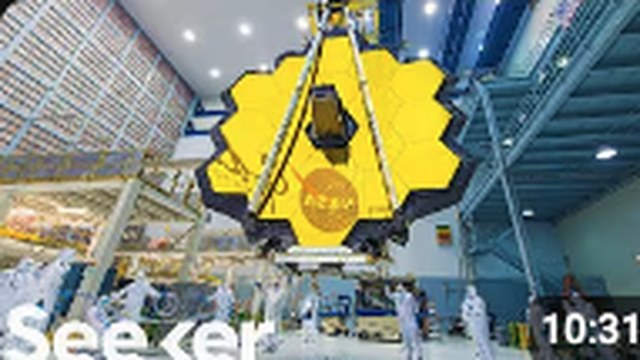
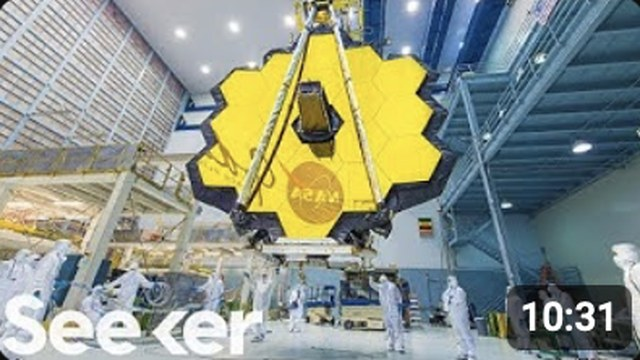
Refresh Seeker thumbnails and captions

diff --git a/index.html b/index.html
@@ -530,7 +530,7 @@ img[src="img/ttt-concept.jpg"] { border: 0 !important; box-shadow: none !importa
 .edu .sub2:last-child { margin-bottom: 0; }
 #p-seeker .hcaw span { white-space: nowrap; }
 #p-seeker .sick-fig, #p-seeker .site-fig { margin-top: 1.25rem; }
-#p-seeker .hcaw-fig .cap { margin: 0.6rem 0 0; }
+#p-seeker .hcaw-fig .cap { margin: 0.6rem 0 0; } .hcaw-fig figcaption a, .hcaw-fig .cap a { color: inherit; text-decoration: underline; text-decoration-thickness: 1px; text-underline-offset: 2px; text-decoration-color: color-mix(in srgb, currentColor 40%, transparent); } .hcaw-fig figcaption a:hover, .hcaw-fig .cap a:hover { text-decoration-color: currentColor; }
 #p-seeker .hcaw-fig .cap { font-size: 0.8rem; line-height: 1.45; color: var(--muted); }
 p, li, dd, figcaption, blockquote { text-wrap: pretty; }
 .unity-fig { margin: 1rem 0 0; } .unity-fig img { display: block; width: 100%; height: auto; border-radius: 2px; }
@@ -649,19 +649,19 @@ footer .sps-more { font-size: 0.875rem; color: var(--muted); }
 <figcaption><b>On ABC News:</b> Seeker footage of Ben Lecomte</figcaption>
 </figure>
 <figure class="hcaw-fig">
-<ul class="hcaw"><li><img alt="How Close Are We to Launching the James Webb Space Telescope? episode thumbnail" height="360" loading="lazy" src="img/hcaw-webb.jpg" width="640"/><span>1M views</span></li><li><img alt="How Close Are We to Zero-Emissions Electricity? episode thumbnail" height="360" loading="lazy" src="img/hcaw-electricity.jpg" width="640"/><span>401K views</span></li><li><img alt="How Close Are We to Immortality? episode thumbnail" height="360" loading="lazy" src="img/hcaw-immortality.jpg" width="640"/><span>608K views</span></li><li><img alt="How Close Are We to Harnessing Synthetic Life? episode thumbnail" height="360" loading="lazy" src="img/hcaw-synthetic.jpg" width="640"/><span>407K views</span></li><li><img alt="How Close Are We to Finding a Parallel Universe? episode thumbnail" height="360" loading="lazy" src="img/hcaw-parallel.jpg" width="640"/><span>398K views</span></li><li><img alt="How Close Are We to Terraforming Mars? episode thumbnail" height="360" loading="lazy" src="img/hcaw-mars.jpg" width="640"/><span>497K views</span></li></ul>
-<figcaption><b><i>How Close Are We?</i>:</b> more than 21 million views across 28 episodes · Producer and writer on several episodes · Pictured, left to right: launching the James Webb Space Telescope, zero-emissions electricity, immortality, harnessing synthetic life, finding a parallel universe, and terraforming Mars</figcaption>
+<ul class="hcaw"><li><img alt="How Close Are We to Launching the James Webb Space Telescope? episode thumbnail" height="360" loading="lazy" src="img/hcaw-webb.jpg?v=2" width="640"/><span>1M views</span></li><li><img alt="How Close Are We to Zero-Emissions Electricity? episode thumbnail" height="360" loading="lazy" src="img/hcaw-electricity.jpg?v=2" width="640"/><span>401K views</span></li><li><img alt="How Close Are We to Immortality? episode thumbnail" height="360" loading="lazy" src="img/hcaw-immortality.jpg" width="640"/><span>608K views</span></li><li><img alt="How Close Are We to Harnessing Synthetic Life? episode thumbnail" height="360" loading="lazy" src="img/hcaw-synthetic.jpg" width="640"/><span>407K views</span></li><li><img alt="How Close Are We to a Self-Driving World? episode thumbnail" height="360" loading="lazy" src="img/hcaw-driving.jpg" width="640"/><span>450K views</span></li><li><img alt="How Close Are We to Terraforming Mars? episode thumbnail" height="360" loading="lazy" src="img/hcaw-mars.jpg" width="640"/><span>497K views</span></li></ul>
+<figcaption><b><a href="https://www.youtube.com/playlist?list=PL6uC-XGZC7X6PlmJyPllVYsPWX6lGtUfP" rel="noopener" target="_blank"><i>How Close Are We?</i></a>:</b> more than 21 million views across 28 episodes · Producer and writer on several episodes · Pictured, left to right: launching the James Webb Space Telescope, zero-emissions electricity, immortality, harnessing synthetic life, a self-driving world, and terraforming Mars</figcaption>
 <div class="sick-fig">
 <ul class="hcaw"><li><img alt="What Exactly Is Typhoid Fever? episode thumbnail" height="360" loading="lazy" src="img/sick-typhoid.jpg" width="640"/><span>823K views</span></li><li><img alt="What Happens When Someone Gets Dengue Fever? episode thumbnail" height="360" loading="lazy" src="img/sick-dengue.jpg" width="640"/><span>313K views</span></li><li><img alt="Here’s Why Pneumonia Is Still So Deadly episode thumbnail" height="360" loading="lazy" src="img/sick-pneumonia.jpg" width="640"/><span>147K views</span></li></ul>
-<p class="cap"><b><i>Sick</i>:</b> 2.6 million views across 14 episodes · Writer, narrator, associate producer</p>
+<p class="cap"><b><a href="https://www.youtube.com/playlist?list=PL6uC-XGZC7X592Xrw8_cNvlq8CQVvQvOl" rel="noopener" target="_blank"><i>Sick</i></a>:</b> 2.6 million views across 14 episodes · Writer, narrator, associate producer · Pictured, left to right: typhoid fever, dengue fever, and pneumonia</p>
 </div>
 <div class="site-fig">
-<ul class="hcaw"><li><img alt="How NASA Built the Fastest Spacecraft Ever episode thumbnail" height="360" loading="lazy" src="img/site-nasa.jpg" width="640"/><span>704K views</span></li><li><img alt="How NASA’s Rover Team Reimagined Mars 2020 episode thumbnail" height="360" loading="lazy" src="img/site-mars.jpg" width="640"/><span>368K views</span></li><li><img alt="These Hybrid Metallic Crystals Are Chemistry’s New Miracle Materials episode thumbnail" height="360" loading="lazy" src="img/site-crystals.jpg" width="640"/><span>279K views</span></li></ul>
-<p class="cap"><b><i>Science in the Extremes</i>:</b> 2.3 million views across 11 episodes · Writer, associate producer</p>
+<ul class="hcaw"><li><img alt="Will Supercomputers Create Virtual Maps of Your Body in the Future? episode title card" height="360" loading="lazy" src="img/site-body.jpg" width="640"/></li><li><img alt="These Sleep Engineers Could Help You Hack Your Dreams episode thumbnail" height="360" loading="lazy" src="img/site-dream.jpg" width="640"/></li><li><img alt="Fly With Hurricane Hunters as They Measure the Power of a Storm episode thumbnail" height="360" loading="lazy" src="img/site-hurricane.jpg" width="640"/></li></ul>
+<p class="cap"><b><a href="https://www.youtube.com/playlist?list=PL6uC-XGZC7X7iAJzhGbSwqAMQBdTPk8Hw" rel="noopener" target="_blank"><i>Science in the Extremes</i></a>:</b> 3.2 million views across 23 episodes · Writer, associate producer · Pictured, left to right: supercomputer maps of the human body, sleep engineers who could help you hack your dreams, and flying with hurricane hunters as they measure the power of a storm</p>
 </div>
 </figure>
 </div>
-<div class="more"><div class="tbar"><button aria-controls="p-seeker-how" aria-expanded="false" class="tg" type="button">How it was made</button><button aria-controls="p-seeker-next" aria-expanded="false" class="tg" type="button">What's next</button><span class="tlinks"><a class="go" href="https://www.youtube.com/playlist?list=PL6uC-XGZC7X6PlmJyPllVYsPWX6lGtUfP" rel="noopener" target="_blank">Watch <i>How Close Are We?</i> ↗</a><a class="go" href="https://shortyawards.com/4th-socialgood/seekers-the-swim" rel="noopener" target="_blank">Shorty Awards entry ↗</a></span></div><div class="more-in textonly" hidden="" id="p-seeker-how"><div class="tl v"><span class="label">Process</span><ol><li class="o"><span class="whos"><b class="who">Team</b></span><p>The editorial team set up six science series</p></li><li class="m"><span class="whos"><b class="who me">Me</b><b class="who">Team</b></span><p>Pitched and wrote episodes, and shaped each series’ format and look</p></li><li class="m"><span class="whos"><b class="who me">Me</b></span><p>Project-managed <i>The Swim</i> with Discovery, Nomadica Films, and 27 research institutions</p></li><li class="o"><span class="whos"><b class="who">Scientists</b></span><p>Shared their findings from NASA, MIT, Harvard, NIH, and more</p></li><li class="m"><span class="whos"><b class="who me">Me</b></span><p>Turned the findings into scripts and storyboards for the mid-form deep dives</p></li><li class="o"><span class="whos"><b class="who">Video crew</b></span><p>Editors and cinematographers shot in the studio and the field, and cut each episode</p></li><li class="m"><span class="whos"><b class="who me">Me</b><b class="who">Team</b></span><p>Sharpened formats with audience data, and owned thumbnails, titles, metadata, and SEO</p></li></ol></div></div><div class="nextp" hidden="" id="p-seeker-next"><p><span>A live, interactive companion app for an expedition like <i>The Swim</i>, where people explore the boat in 3D, see samples like tagged trash as they come in, and listen to whale song recorded by the hydrophones.</span></p></div></div></section><section aria-labelledby="notes" class="specimen" id="p-notes" style="--c: var(--c-notes)">
+<div class="more"><div class="tbar"><button aria-controls="p-seeker-how" aria-expanded="false" class="tg" type="button">How it was made</button><button aria-controls="p-seeker-next" aria-expanded="false" class="tg" type="button">What's next</button><span class="tlinks"><a class="go" href="https://shortyawards.com/4th-socialgood/seekers-the-swim" rel="noopener" target="_blank">Shorty Awards entry ↗</a></span></div><div class="more-in textonly" hidden="" id="p-seeker-how"><div class="tl v"><span class="label">Process</span><ol><li class="o"><span class="whos"><b class="who">Team</b></span><p>The editorial team set up six science series</p></li><li class="m"><span class="whos"><b class="who me">Me</b><b class="who">Team</b></span><p>Pitched and wrote episodes, and shaped each series’ format and look</p></li><li class="m"><span class="whos"><b class="who me">Me</b></span><p>Project-managed <i>The Swim</i> with Discovery, Nomadica Films, and 27 research institutions</p></li><li class="o"><span class="whos"><b class="who">Scientists</b></span><p>Shared their findings from NASA, MIT, Harvard, NIH, and more</p></li><li class="m"><span class="whos"><b class="who me">Me</b></span><p>Turned the findings into scripts and storyboards for the mid-form deep dives</p></li><li class="o"><span class="whos"><b class="who">Video crew</b></span><p>Editors and cinematographers shot in the studio and the field, and cut each episode</p></li><li class="m"><span class="whos"><b class="who me">Me</b><b class="who">Team</b></span><p>Sharpened formats with audience data, and owned thumbnails, titles, metadata, and SEO</p></li></ol></div></div><div class="nextp" hidden="" id="p-seeker-next"><p><span>A live, interactive companion app for an expedition like <i>The Swim</i>, where people explore the boat in 3D, see samples like tagged trash as they come in, and listen to whale song recorded by the hydrophones.</span></p></div></div></section><section aria-labelledby="notes" class="specimen" id="p-notes" style="--c: var(--c-notes)">
 <div class="media" style="display:grid;gap:0.75rem;align-content:start">
 <div class="phones">
 <div class="phone"><img alt="Field Notes start screen: Send a photo from somewhere on Earth, with an I'm in button and a privacy note" height="1212" loading="lazy" src="img/fn-01.jpg" width="600"/></div>
@@ -685,7 +685,7 @@ footer .sps-more { font-size: 0.875rem; color: var(--muted); }
 <div class="thumbs">
 <figure>
 <img alt="Map zoomed to Northern California with a pin open near Sacramento: a glowing orange burn pattern, timestamped 5/6/2026, Rancho Cordova, with a 29-second voice note" height="906" loading="lazy" src="img/fn-pin.jpg" width="1400"/>
-<figcaption><b>His pin:</b> a 29-second voice note from the CTO of <a href="https://www.elventech.net/" rel="noopener" target="_blank">Elven Tech</a>, who was at the conference to pitch</figcaption>
+<figcaption><b>His pin:</b> a 29-second voice note from the CTO of <a href="https://www.elventech.net/" rel="noopener" target="_blank">Elven Tech</a>, who told me he was not the one who usually handled the pitching</figcaption>
 </figure>
 <figure>
 <div class="tear t4"><blockquote class="fn-quote"><span class="fn-q-label">Field entry · Rancho Cordova, CA</span><p>“I was at the test center, doing this experiment of burning one of the materials with a torch, and this is the pattern that was seen on the material while burning, and the way I felt was like <em>a hunter in the middle of the winter, looking into the fire in the middle of the night.</em>”</p></blockquote></div>
